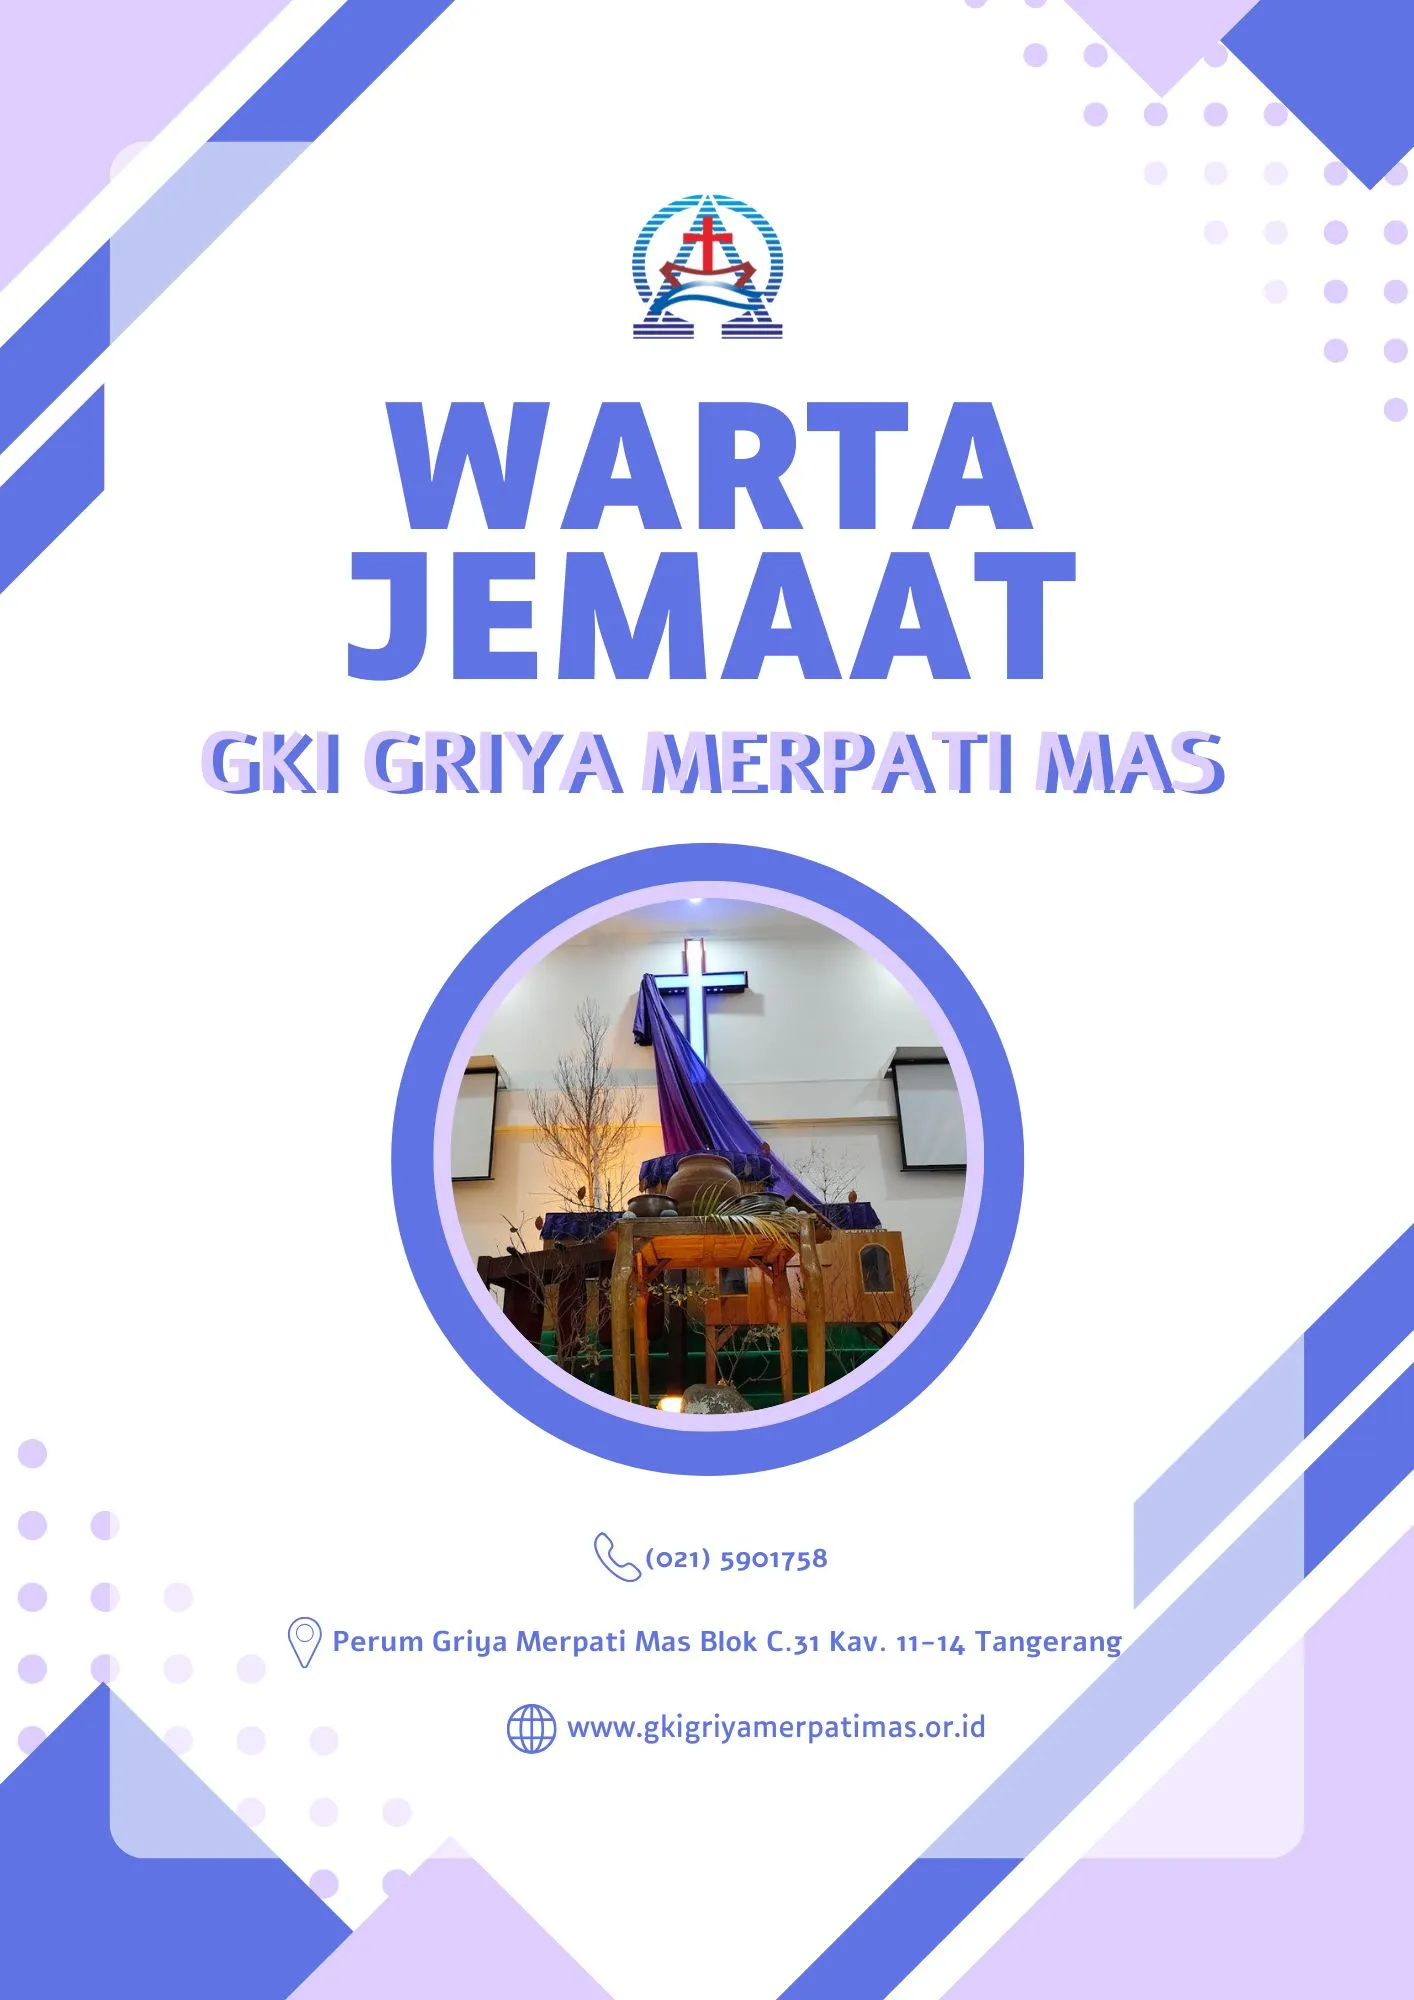
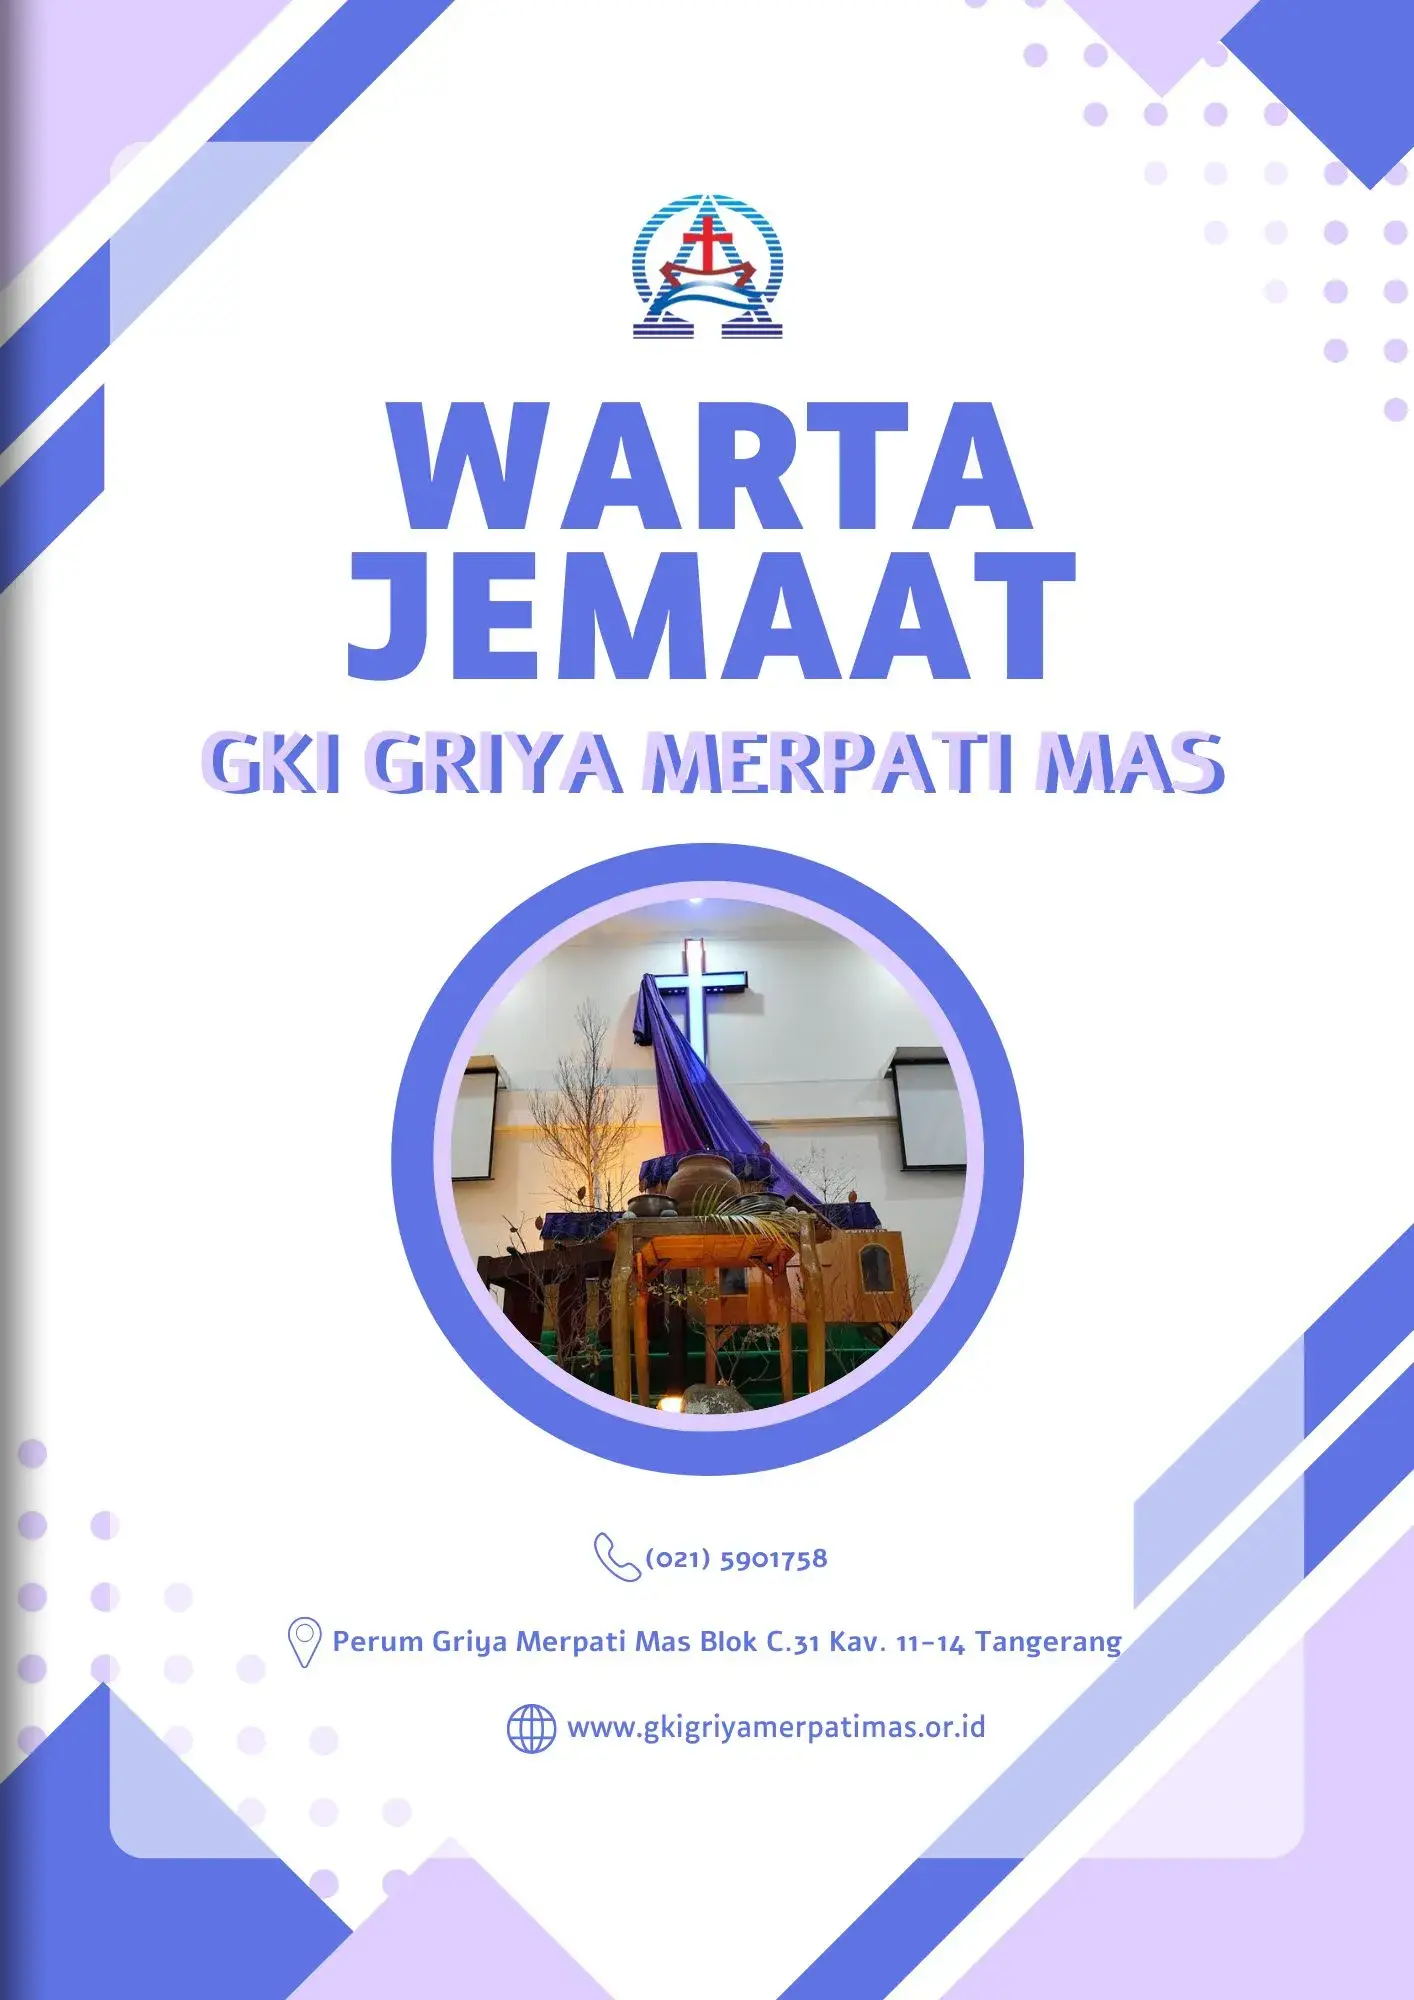
All ok

Changed region(s): [[0.0, 0.0, 0.0311, 1.0]]

diff --git a/style.css b/style.css
@@ -53,66 +53,6 @@ body {
     transition: transform 0.2s ease;
 }
 
-/* --- LOGIKA 3 JENIS SHADOW --- */
-/* Wrapper untuk menumpuk semua shadow */
-.shadow-wrapper {
-    position: absolute;
-    top: 50%; left: 50%;
-    transform: translate(-50%, -50%);
-    width: 960px; height: 680px; /* Area shadow */
-    z-index: -1;
-    pointer-events: none;
-}
-
-/* Style umum untuk ketiga gambar shadow */
-.shadow-item {
-    position: absolute;
-    top: 50%; left: 50%;
-    transform: translate(-50%, -50%);
-    width: 100%; height: 100%; /* Mengikuti wrapper */
-    object-fit: contain; /* Agar rasio gambar shadow terjaga */
-    opacity: 0; /* Semua sembunyi dulu */
-    transition: opacity 0.6s ease-in-out; /* Efek transisi halus */
-}
-.shadow-front {
-    width: 480px;
-    height: 680px;
-    
-    top: 50%;
-    left: 62%;      
-    
-    transform: translate(-50%, -50%);
-    opacity: 0; /* Semua sembunyi dulu */
-    transition: opacity 0.6s ease-in-out; /* Efek transisi halus */
-}
-.shadow-flip {
-    width: 480px;
-    height: 680px;
-    
-    top: 50%;
-    left: 50%;      
-    
-    transform: translate(-50%, -50%);
-    opacity: 0; /* Semua sembunyi dulu */
-    transition: opacity 0.6s ease-in-out; /* Efek transisi halus */
-}
-.shadow-back {
-    width: 480px;
-    height: 680px;
-    
-    top: 50%;
-    left: 22%;      
-    
-    transform: translate(-50%, -50%);
-    opacity: 0; /* Semua sembunyi dulu */
-    transition: opacity 0.6s ease-in-out; /* Efek transisi halus */
-}
-
-/* Class aktif untuk memunculkan shadow */
-.shadow-item.active {
-    opacity: 1;
-}
-
 /* --- FLIPBOOK --- */
 .flipbook {
     transition: margin-left 0.2s ease-in-out;

diff --git a/index.html b/index.html
@@ -21,7 +21,7 @@
         
         <div class="flipbook">
           <div class="hard"><img src="images/cover1.webp" alt="" /></div>
-          <div class="hard"><img src="images/cover2.webp" alt="" /></div>
+          <div class="hard"><img src="images/coverin1.webp" alt="" /></div>
           
           <div><img src="images/page1.webp" alt="" /></div>
           <div><img src="images/page2.webp" alt="" /></div>
@@ -36,13 +36,8 @@
           <div><img src="images/page11.webp" alt="" /></div>
           <div><img src="images/page12.webp" alt="" /></div>
           
-          <div class="hard"><img src="images/back2.webp" alt="" /></div>
+          <div class="hard"><img src="images/coverin2.webp" alt="" /></div>
           <div class="hard"><img src="images/cover2.webp" alt="" /></div>
-        </div>
-        <div class="shadow-wrapper">
-            <img src="images/front_page_edge_shading.webp" class="shadow-item shadow-front active" alt="Front Shadow">
-            <img src="images/flip_book_edge_shading.webp" class="shadow-item shadow-flip" alt="Flip Shadow">
-            <img src="images/back_page_edge_shading.webp" class="shadow-item shadow-back" alt="Back Shadow">
         </div>
     </div>
   </div>
